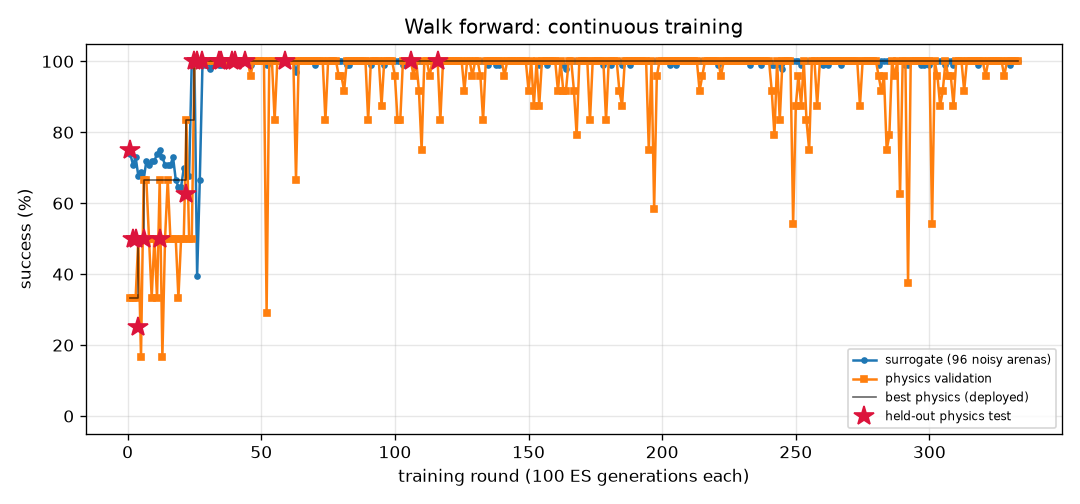
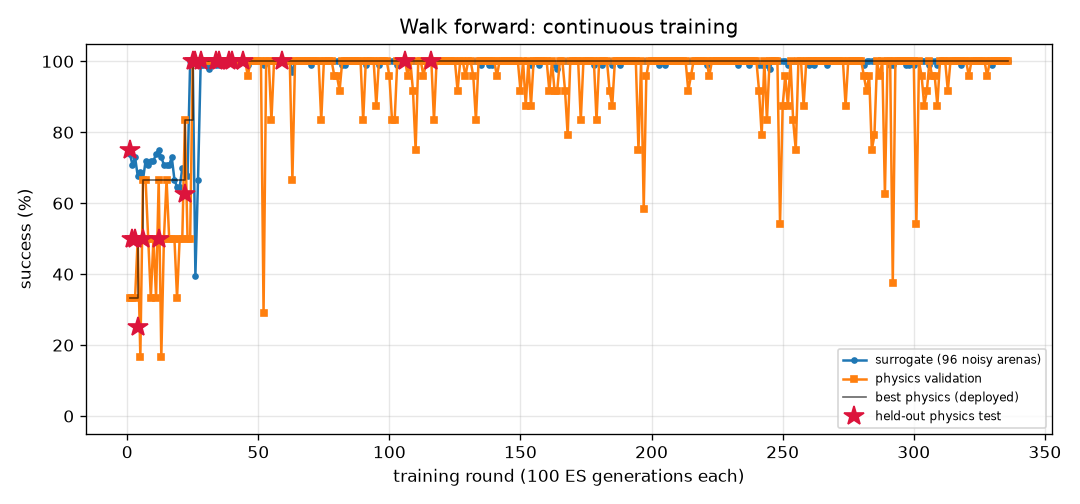
FlyLab: continuous training progress
- walk_forward: optimal, physics val 100% of 24, round 336
- turn: optimal, physics val 100% of 24, round 943
- goto: optimal, physics val 100% of 24, round 266
- odor_seek: optimal, physics val 100% of 24, round 220
- odor_avoid: optimal, physics val 100% of 24, round 847
- light_seek: optimal, physics val 100% of 24, round 464
- light_avoid: optimal, physics val 100% of 24, round 579

diff --git a/projects/09_flylab/training/light_seek/REPORT.md b/projects/09_flylab/training/light_seek/REPORT.md
@@ -1,14 +1,14 @@
 # Walk toward light (`light_seek`) — training report
 
-*Auto-generated by `train_brains.py`, last updated 2026-11-08T16:13:57.*
+*Auto-generated by `train_brains.py`, last updated 2026-11-08T19:55:37.*
 
 ![curve](curve.png)
 
 | | |
 |---|---|
-| rounds | 461 |
-| ES generations | 46100 |
-| physics runs | 7944 |
+| rounds | 464 |
+| ES generations | 46400 |
+| physics runs | 8016 |
 | status | **optimal** |
 | best brain | round 375: physics validation **100%** on 24 arenas, surrogate 100% |
 | held-out physics test | **100%** on 32 unseen arenas (95% CI 89%-100%) (errors: [0.57, 0.54, 0.53, 0.57, 0.55, 0.56, 0.59, 0.56, 0.53, 0.56, 0.71, 0.56, 0.55, 0.54, 0.53, 0.54, 0.54, 0.55, 0.52, 0.65, 0.64, 0.7, 0.58, 0.57, 0.6, 0.62, 0.55, 0.88, 0.54, 0.52, 0.62, 0.57]) |
@@ -17,9 +17,6 @@ Physics error per arena: mm from target at the end (< 1.5 and standing still = s
 
 | round | level | gens | sigma | surrogate | physics val | val errors | test | note |
 |---:|---:|---:|---:|---:|---:|---|---:|---|
-| 422 | 3 | 42200 | 0.024 | 100% | 100% | [0.68, 0.48, 0.53, 0.65, 0.48, 0.53, 0.57, 1.24, 0.48, 0.55, 0.54, 0.51, 0.52, 0.6, 0.47, 0.55, 0.5, 0.47, 0.49, 0.62, 0.61, 0.46, 0.89, 0.97] |  |  |
-| 423 | 3 | 42300 | 0.024 | 100% | 100% | [0.46, 0.7, 0.58, 0.83, 0.52, 0.48, 0.53, 0.53, 0.5, 0.49, 0.64, 0.56, 1.18, 0.56, 0.55, 0.6, 0.59, 0.63, 0.48, 0.6, 0.62, 0.51, 0.47, 0.55] |  | restart from best |
-| 424 | 3 | 42400 | 0.024 | 100% | 100% | [1.22, 0.52, 0.6, 0.53, 0.54, 0.59, 0.7, 0.53, 0.62, 0.53, 0.55, 0.55, 0.56, 0.67, 0.55, 0.56, 0.54, 0.53, 0.53, 0.59, 0.65, 0.63, 0.57, 0.54] |  |  |
 | 425 | 3 | 42500 | 0.024 | 100% | 100% | [0.59, 0.66, 0.6, 0.56, 0.54, 0.63, 0.56, 0.6, 0.76, 0.65, 1.16, 0.55, 0.61, 0.66, 0.54, 0.61, 0.55, 0.56, 0.55, 0.66, 0.6, 0.58, 0.59, 0.58] |  |  |
 | 426 | 3 | 42600 | 0.024 | 100% | 100% | [0.53, 0.51, 0.5, 0.9, 0.53, 0.52, 0.52, 1.16, 0.57, 0.52, 0.55, 0.5, 0.48, 0.58, 0.56, 0.6, 0.51, 0.52, 0.54, 0.5, 0.51, 0.59, 0.49, 0.56] |  |  |
 | 427 | 3 | 42700 | 0.024 | 100% | 100% | [0.56, 0.61, 0.66, 0.63, 0.61, 0.68, 0.61, 0.58, 0.59, 0.54, 0.96, 0.53, 0.83, 0.62, 0.65, 0.64, 0.59, 0.83, 0.57, 0.6, 0.6, 0.62, 0.56, 0.6] |  | restart from best |
@@ -57,3 +54,6 @@ Physics error per arena: mm from target at the end (< 1.5 and standing still = s
 | 459 | 3 | 45900 | 0.024 | 100% | 100% | [0.9, 0.46, 0.51, 0.46, 0.66, 0.54, 0.47, 0.54, 0.62, 0.64, 0.52, 0.48, 0.47, 0.45, 0.48, 0.52, 0.6, 0.59, 0.54, 0.49, 0.52, 0.56, 0.51, 0.53] |  | restart from best |
 | 460 | 3 | 46000 | 0.024 | 100% | 100% | [0.47, 0.46, 0.51, 0.5, 0.47, 0.57, 0.53, 0.51, 0.49, 0.51, 0.48, 0.55, 0.58, 0.51, 0.49, 0.55, 0.47, 0.51, 0.52, 0.59, 0.49, 0.47, 0.48, 0.48] |  |  |
 | 461 | 3 | 46100 | 0.024 | 100% | 100% | [0.57, 0.57, 0.56, 0.56, 0.65, 0.65, 0.56, 0.61, 0.6, 0.58, 0.6, 0.59, 0.56, 0.6, 0.57, 0.56, 0.57, 0.56, 0.58, 0.58, 0.57, 0.65, 0.57, 0.61] |  |  |
+| 462 | 3 | 46200 | 0.024 | 100% | 100% | [0.51, 0.53, 0.52, 0.53, 0.5, 0.52, 0.51, 0.52, 1.11, 0.5, 0.51, 0.52, 0.51, 0.51, 0.53, 0.51, 0.51, 0.5, 0.52, 0.53, 0.52, 0.51, 0.51, 0.54] |  |  |
+| 463 | 3 | 46300 | 0.024 | 100% | 100% | [0.53, 0.61, 0.54, 0.57, 0.59, 0.55, 0.49, 0.49, 0.57, 0.49, 0.6, 0.54, 0.94, 0.53, 0.95, 0.81, 0.52, 0.51, 0.57, 0.54, 0.5, 1.03, 0.56, 0.6] |  | restart from best |
+| 464 | 3 | 46400 | 0.024 | 100% | 100% | [0.68, 0.56, 0.64, 0.57, 0.58, 0.54, 0.66, 0.62, 0.71, 0.58, 0.59, 0.59, 0.62, 0.99, 0.71, 0.58, 0.72, 0.58, 0.55, 0.71, 0.62, 0.68, 0.57, 0.58] |  |  |

diff --git a/projects/09_flylab/training/walk_forward/REPORT.md b/projects/09_flylab/training/walk_forward/REPORT.md
@@ -1,14 +1,14 @@
 # Walk forward (`walk_forward`) — training report
 
-*Auto-generated by `train_brains.py`, last updated 2026-11-08T16:45:03.*
+*Auto-generated by `train_brains.py`, last updated 2026-11-08T19:57:55.*
 
 ![curve](curve.png)
 
 | | |
 |---|---|
-| rounds | 333 |
-| ES generations | 33300 |
-| physics runs | 8006 |
+| rounds | 336 |
+| ES generations | 33600 |
+| physics runs | 8078 |
 | status | **optimal** |
 | best brain | round 116: physics validation **100%** on 24 arenas, surrogate 100% |
 | held-out physics test | **100%** on 32 unseen arenas (95% CI 89%-100%) (errors: [0.13, 0.16, 0.19, 0.16, 0.15, 0.2, 0.17, 0.18, 0.17, 0.19, 0.2, 0.14, 0.17, 0.19, 0.2, 0.2, 0.13, 0.19, 0.16, 0.2, 0.2, 0.16, 0.17, 0.2, 0.13, 0.15, 0.18, 0.14, 0.16, 0.15, 0.19, 0.12]) |
@@ -17,9 +17,6 @@ Physics error per arena: mm from target at the end (< 1.5 and standing still = s
 
 | round | level | gens | sigma | surrogate | physics val | val errors | test | note |
 |---:|---:|---:|---:|---:|---:|---|---:|---|
-| 294 | 3 | 29400 | 0.024 | 100% | 100% | [0.25, 0.3, 0.2, 0.25, 0.3, 0.2, 0.3, 0.22, 0.3, 0.31, 0.2, 0.3, 0.22, 0.2, 0.27, 0.3, 0.25, 0.29, 0.22, 0.28, 0.23, 0.31, 0.29, 0.22] |  |  |
-| 295 | 3 | 29500 | 0.024 | 100% | 100% | [0.29, 0.29, 0.24, 0.28, 0.29, 0.22, 0.29, 0.26, 0.29, 0.27, 0.22, 0.25, 0.25, 0.22, 0.29, 0.27, 0.28, 0.3, 0.27, 0.3, 0.27, 0.27, 0.25, 0.25] |  |  |
-| 296 | 3 | 29600 | 0.024 | 100% | 100% | [0.26, 0.31, 0.21, 0.26, 0.31, 0.21, 0.31, 0.22, 0.31, 0.32, 0.2, 0.31, 0.22, 0.21, 0.27, 0.32, 0.25, 0.3, 0.22, 0.29, 0.23, 0.32, 0.31, 0.22] |  | restart from best |
 | 297 | 3 | 29700 | 0.024 | 99% | 100% | [0.41, 0.4, 0.34, 0.41, 0.41, 0.33, 0.4, 0.37, 0.41, 0.39, 0.31, 0.37, 0.37, 0.32, 0.42, 0.38, 0.41, 0.41, 0.37, 0.41, 0.39, 0.38, 0.36, 0.38] |  |  |
 | 298 | 3 | 29800 | 0.025 | 99% | 100% | [0.23, 0.27, 0.16, 0.22, 0.26, 0.16, 0.27, 0.18, 0.27, 0.26, 0.18, 0.24, 0.18, 0.16, 0.24, 0.26, 0.21, 0.26, 0.19, 0.25, 0.2, 0.26, 0.23, 0.18] |  |  |
 | 299 | 3 | 29900 | 0.025 | 100% | 100% | [0.26, 0.31, 0.23, 0.26, 0.31, 0.22, 0.32, 0.23, 0.32, 0.33, 0.22, 0.33, 0.23, 0.22, 0.27, 0.33, 0.25, 0.3, 0.23, 0.28, 0.24, 0.33, 0.32, 0.23] |  |  |
@@ -57,3 +54,6 @@ Physics error per arena: mm from target at the end (< 1.5 and standing still = s
 | 331 | 3 | 33100 | 0.025 | 100% | 100% | [0.21, 0.25, 0.15, 0.21, 0.25, 0.15, 0.25, 0.17, 0.24, 0.25, 0.14, 0.24, 0.17, 0.15, 0.22, 0.24, 0.2, 0.24, 0.17, 0.23, 0.18, 0.25, 0.24, 0.16] |  |  |
 | 332 | 3 | 33200 | 0.024 | 100% | 100% | [0.18, 0.23, 0.15, 0.19, 0.24, 0.15, 0.25, 0.16, 0.23, 0.25, 0.15, 0.25, 0.16, 0.15, 0.2, 0.25, 0.18, 0.23, 0.16, 0.21, 0.16, 0.25, 0.24, 0.15] |  | restart from best |
 | 333 | 3 | 33300 | 0.024 | 100% | 100% | [0.23, 0.3, 0.2, 0.23, 0.3, 0.21, 0.3, 0.21, 0.3, 0.31, 0.21, 0.31, 0.2, 0.21, 0.26, 0.31, 0.22, 0.28, 0.21, 0.26, 0.21, 0.31, 0.31, 0.2] |  |  |
+| 334 | 3 | 33400 | 0.024 | 100% | 100% | [0.4, 0.51, 0.38, 0.4, 0.51, 0.4, 0.52, 0.36, 0.52, 0.52, 0.41, 0.49, 0.37, 0.39, 0.43, 0.5, 0.38, 0.5, 0.37, 0.46, 0.36, 0.51, 0.48, 0.37] |  |  |
+| 335 | 3 | 33500 | 0.024 | 100% | 100% | [0.27, 0.37, 0.28, 0.27, 0.37, 0.29, 0.37, 0.27, 0.37, 0.37, 0.3, 0.34, 0.27, 0.29, 0.3, 0.36, 0.26, 0.36, 0.27, 0.32, 0.26, 0.36, 0.33, 0.27] |  |  |
+| 336 | 3 | 33600 | 0.024 | 100% | 100% | [0.23, 0.34, 0.22, 0.23, 0.34, 0.23, 0.33, 0.21, 0.34, 0.31, 0.24, 0.29, 0.22, 0.23, 0.26, 0.29, 0.21, 0.32, 0.21, 0.29, 0.2, 0.3, 0.29, 0.22] |  | restart from best |

diff --git a/projects/09_flylab/training/light_avoid/REPORT.md b/projects/09_flylab/training/light_avoid/REPORT.md
@@ -1,14 +1,14 @@
 # Hide from light (`light_avoid`) — training report
 
-*Auto-generated by `train_brains.py`, last updated 2026-11-08T19:11:16.*
+*Auto-generated by `train_brains.py`, last updated 2026-11-08T19:22:58.*
 
 ![curve](curve.png)
 
 | | |
 |---|---|
-| rounds | 578 |
-| ES generations | 57800 |
-| physics runs | 14144 |
+| rounds | 579 |
+| ES generations | 57900 |
+| physics runs | 14168 |
 | status | **optimal** |
 | best brain | round 159: physics validation **100%** on 24 arenas, surrogate 100% |
 | held-out physics test | **100%** on 32 unseen arenas (95% CI 89%-100%) (errors: [14.4, 56.1, 58.0, 57.9, 57.5, 14.0, 14.4, 56.6, 56.8, 13.3, 14.1, 56.6, 57.6, 13.1, 57.3, 55.9, 57.2, 55.0, 55.2, 53.9, 55.2, 12.4, 53.8, 53.7, 14.1, 13.7, 55.0, 57.8, 56.2, 13.1, 52.8, 56.5]) |
@@ -17,7 +17,6 @@ Physics error per arena: mm gained away from source (> 6 without first approachi
 
 | round | level | gens | sigma | surrogate | physics val | val errors | test | note |
 |---:|---:|---:|---:|---:|---:|---|---:|---|
-| 539 | 3 | 53900 | 0.024 | 100% | 100% | [55.7, 58.0, 58.1, 55.9, 55.1, 55.6, 57.5, 14.5, 12.6, 13.4, 50.0, 54.9, 14.4, 54.5, 58.1, 55.5, 14.2, 56.1, 58.1, 14.4, 54.5, 52.5, 57.6, 54.0] |  | restart from best |
 | 540 | 3 | 54000 | 0.024 | 100% | 100% | [56.6, 59.9, 59.6, 57.1, 59.1, 57.3, 58.5, 14.5, 39.8, 13.3, 56.7, 58.8, 14.4, 56.5, 59.8, 57.0, 14.2, 59.6, 60.1, 14.4, 56.9, 58.2, 58.4, 58.2] |  |  |
 | 541 | 3 | 54100 | 0.024 | 99% | 100% | [54.2, 57.9, 57.9, 54.1, 54.1, 54.3, 57.9, 14.5, 12.2, 13.4, 48.0, 53.9, 14.4, 51.1, 57.9, 53.7, 14.2, 55.2, 57.2, 14.4, 50.7, 50.5, 57.2, 52.7] |  |  |
 | 542 | 3 | 54200 | 0.025 | 100% | 100% | [57.7, 60.1, 60.0, 57.5, 58.7, 57.7, 59.1, 14.5, 54.1, 13.4, 58.8, 58.4, 14.4, 58.8, 60.1, 57.1, 14.2, 59.1, 60.4, 14.4, 56.1, 59.0, 58.8, 57.7] |  |  |
@@ -57,3 +56,4 @@ Physics error per arena: mm gained away from source (> 6 without first approachi
 | 576 | 3 | 57600 | 0.024 | 100% | 100% | [45.7, 45.6, 45.3, 46.5, 47.2, 45.0, 42.7, 14.5, 43.1, 13.3, 46.1, 47.5, 14.3, 47.4, 45.0, 44.4, 14.2, 47.9, 45.1, 14.4, 47.4, 46.9, 43.1, 47.5] |  |  |
 | 577 | 3 | 57700 | 0.024 | 100% | 100% | [53.5, 54.6, 54.5, 53.4, 56.0, 51.7, 52.7, 14.5, 52.3, 13.2, 54.7, 55.8, 14.3, 53.8, 54.6, 53.5, 14.2, 56.2, 55.2, 14.4, 53.2, 54.7, 53.3, 55.5] |  |  |
 | 578 | 3 | 57800 | 0.024 | 100% | 100% | [53.4, 55.2, 55.0, 53.4, 54.3, 53.9, 54.1, 14.5, 49.7, 13.2, 53.2, 54.0, 14.4, 54.5, 55.2, 53.2, 14.2, 54.7, 55.5, 14.4, 51.8, 54.3, 53.5, 53.5] |  |  |
+| 579 | 3 | 57900 | 0.024 | 100% | 100% | [48.5, 51.9, 51.1, 50.3, 53.9, 49.5, 49.6, 14.5, 47.2, 13.4, 52.4, 54.0, 14.4, 53.3, 51.4, 50.5, 14.2, 54.0, 51.9, 14.4, 49.2, 52.3, 49.3, 54.0] |  | restart from best |

diff --git a/projects/09_flylab/training/TRAINING.md b/projects/09_flylab/training/TRAINING.md
@@ -1,15 +1,15 @@
 # FlyLab brains — continuous training log
 
-*Auto-generated by `train_brains.py`, last updated 2026-11-08T19:11:16.*
+*Auto-generated by `train_brains.py`, last updated 2026-11-08T19:57:55.*
 
 Every skill has its own brain and its own training process: surrogate ES rounds, physics validation in MuJoCo, keep-the-best selection, and a held-out physics test that is never used for selection. See each skill's report for its full round-by-round history. Mastery is progressive: passing a level (100% physics validation, >=95% surrogate) doubles the validation and test arena sets; a brain is **optimal** once it holds up at level 3 (>=95% of 24 validation arenas) AND scores >=90% on the 32 held-out test arenas. Test columns show 95% Wilson confidence intervals.
 
 | skill | rounds | ES generations | physics runs | surrogate | physics val | **physics test** | status |
 |---|---:|---:|---:|---:|---:|---:|---|
-| [Walk forward](walk_forward/REPORT.md) | 333 | 33300 | 8006 | 100% | 100% of 24 | 100% of 32 (CI 89-100%) | **optimal** |
+| [Walk forward](walk_forward/REPORT.md) | 336 | 33600 | 8078 | 100% | 100% of 24 | 100% of 32 (CI 89-100%) | **optimal** |
 | [Turn in place](turn/REPORT.md) | 943 | 94300 | 22878 | 100% | 100% of 24 | 97% of 32 (CI 84-99%) | **optimal** |
 | [Go to a location](goto/REPORT.md) | 266 | 26600 | 6334 | 100% | 100% of 24 | 100% of 32 (CI 89-100%) | **optimal** |
 | [Find food by smell](odor_seek/REPORT.md) | 220 | 22000 | 4710 | 100% | 100% of 24 | 100% of 32 (CI 89-100%) | **optimal** |
 | [Escape a bad smell](odor_avoid/REPORT.md) | 847 | 84700 | 17634 | 97% | 100% of 24 | 97% of 32 (CI 84-99%) | **optimal** |
-| [Walk toward light](light_seek/REPORT.md) | 461 | 46100 | 7944 | 100% | 100% of 24 | 100% of 32 (CI 89-100%) | **optimal** |
-| [Hide from light](light_avoid/REPORT.md) | 578 | 57800 | 14144 | 100% | 100% of 24 | 100% of 32 (CI 89-100%) | **optimal** |
+| [Walk toward light](light_seek/REPORT.md) | 464 | 46400 | 8016 | 100% | 100% of 24 | 100% of 32 (CI 89-100%) | **optimal** |
+| [Hide from light](light_avoid/REPORT.md) | 579 | 57900 | 14168 | 100% | 100% of 24 | 100% of 32 (CI 89-100%) | **optimal** |
